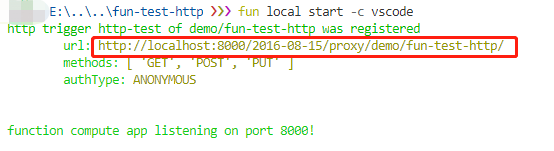
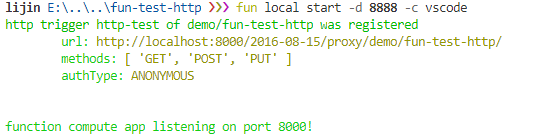
细节修改

Changed region(s): [[0.0, 0.0, 0.9499, 0.4672], [0.0, 0.8175, 0.5937, 0.9927], [0.0891, 0.4964, 0.3859, 0.6131]]

diff --git a/README.MD b/README.MD
@@ -17,17 +17,19 @@
 ## 使用模板
 - 使用vscode打开模板文件夹
 
-- 打开终端，运行调试命令：fun local start -c vscode，控制台会自动输出调试链接
+- 打开终端，运行调试命令：fun local start -d 8888 -c vscode，控制台会自动输出调试链接
 
   ![调试命令](static/1.png)
 
-- 按住ctrl并单击链接，在浏览器中打开调试链接
+- 按住ctrl并单击链接，即可浏览器中打开调试链接。或者直接复制链接在浏览器中打开。
 
 - 调试程序
  ![调试程序](static/2.png)
+ ![调试程序](static/4.png)
 
 - 调试完成后可以在浏览器中看到返回结果
  ![调试结果](static/3.png)
+
 
 ## 参考资料
 - [阿里云官方示例](https://github.com/aliyun/fun/tree/master/examples/local_http)
